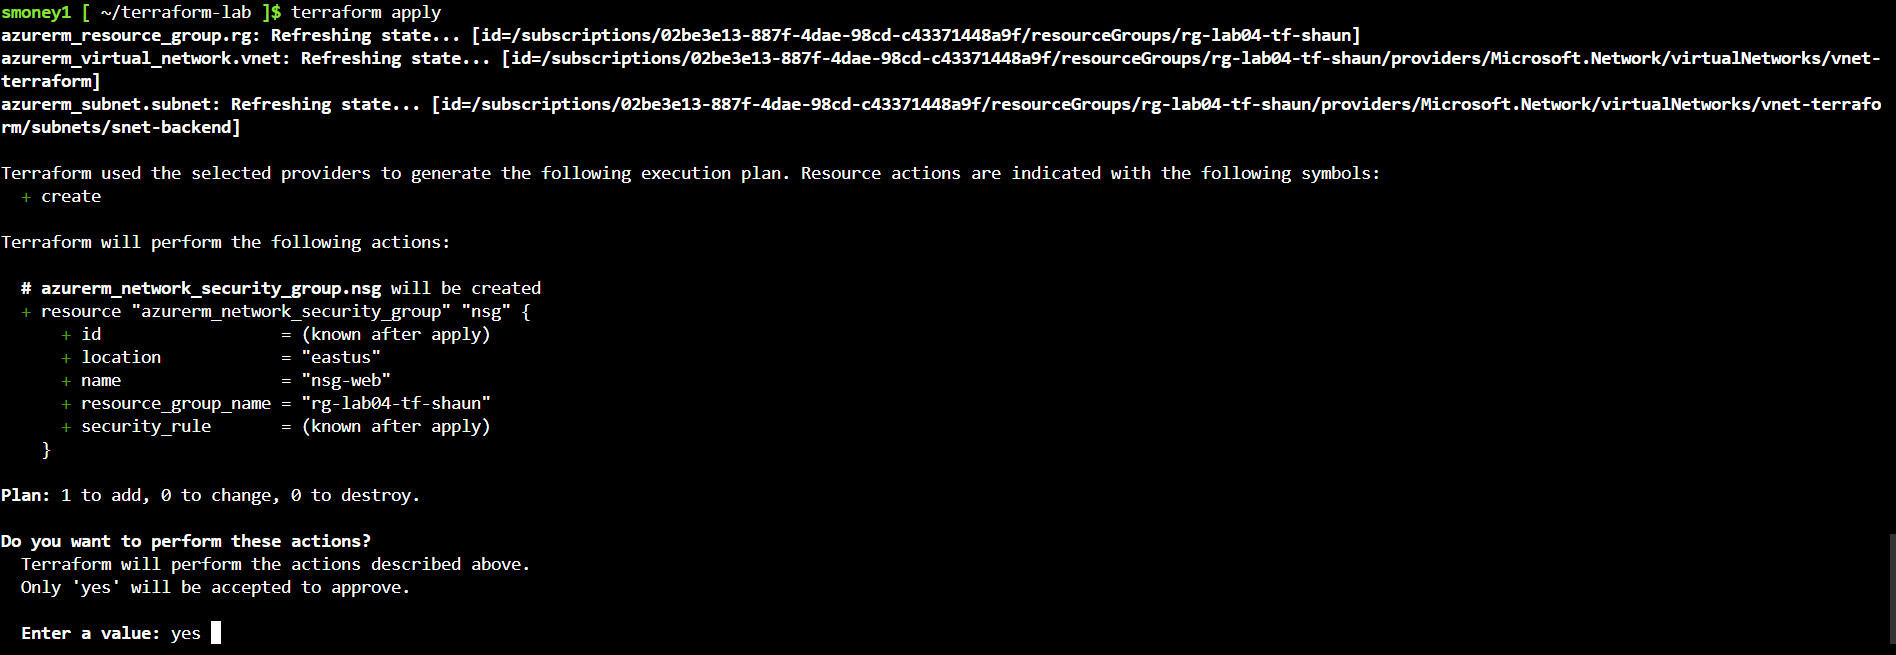
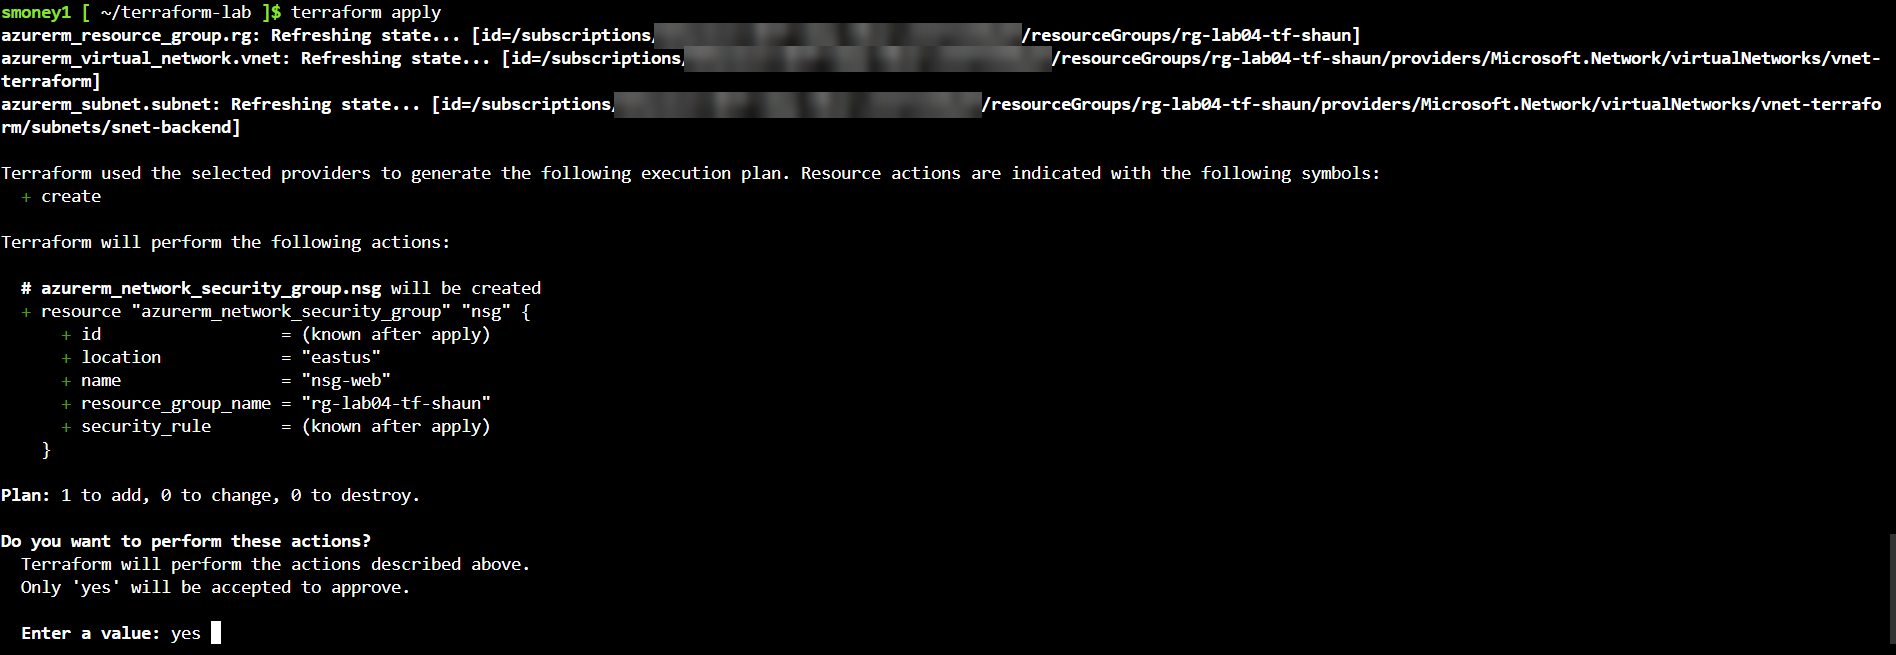
Add Lab 05: Governance and Security Hardening
- Created a Reader-only test user in Entra ID and verified the permission-denied test
- Assigned the Allowed VM size SKUs policy (Restrict-VM-Sizes)
- Set up a $50 monthly budget with 80% actual and 100% forecasted alerts
- Documented a policy scope/test mistake and how to fix it
- Redacted email, tenant, subscription ID, and object IDs in screenshots

Changed region(s): [[0.3112, 0.0305, 0.5601, 0.1832]]

diff --git a/lab05-governance-security/README.md b/lab05-governance-security/README.md
@@ -1,0 +1,215 @@
+# Lab 05: Governance and Security Hardening
+
+I set up the three guardrails every Azure environment needs: **who can do what** (RBAC), **what can be deployed** (Azure Policy), and **how much can be spent** (a budget with alerts). Then I tested them, which turned out to be the most valuable part of the lab, because one test didn't prove what I thought it proved.
+
+| | |
+|---|---|
+| **Difficulty** | Intermediate |
+| **Time** | About 25 minutes (my run: 5:10 AM to 5:33 AM) |
+| **Region** | Central US (resource group) |
+| **Concepts** | RBAC, least privilege, Microsoft Entra ID, Azure Policy, Cost Management, NIST CSF |
+
+---
+
+## Objective
+
+Create a test "Junior Developer" user with view-only access to one resource group, prove that user can't create anything, assign a policy that only allows small VM sizes, set a $50 monthly budget with early-warning alerts, and clean everything up, including the test identity.
+
+## Architecture
+
+```mermaid
+flowchart TB
+    User["junior-dev<br/>(Entra ID user)"] -->|Reader role| RG
+    Policy["Restrict-VM-Sizes<br/>Allowed: B1s, B1ms"] -->|Deny| RG
+    Budget["Monthly-Lab-Budget02<br/>$50 / month"] -->|80% actual<br/>100% forecast| Email["Email alert"]
+    RG["rg-lab05-shaun"] --> Budget
+```
+
+Each control covers a different gap: **RBAC limits people, Policy limits configurations, and the budget limits surprises.** The budget only alerts; it never stops spending.
+
+## Where This Fits in the NIST Cybersecurity Framework
+
+| NIST function | Plain English | Where it shows up in this lab |
+|---|---|---|
+| **Identify** | Know what you have and who has access | Creating the Junior Developer user in Entra ID |
+| **Protect** | Limit what can go wrong | The Reader role and the VM size policy |
+| **Detect** | Notice when something is off | The budget alerts |
+| **Respond** | Act when something goes wrong | Investigating after an alert email |
+| **Recover** | Get back to a known-good state | Deleting the test user and resource group |
+
+## Skills Demonstrated
+
+- Creating a user in **Microsoft Entra ID**
+- Assigning a built-in **RBAC role (Reader)** at resource group scope
+- Testing **least privilege** by signing in as the restricted user in an incognito window
+- Assigning a built-in **Azure Policy** definition with custom parameters
+- Creating a **budget** with both an Actual and a Forecasted alert
+- Reading an `AuthorizationFailed` error closely enough to tell *which* control caused it
+- Cleaning up identities as well as resources
+
+## Resources Deployed
+
+| Item | Name | Notes |
+|---|---|---|
+| Resource group | `rg-lab05-shaun` | Central US |
+| Test user | `junior-dev-shaun` | Display name `junior-dev` |
+| Role assignment | Reader | Scoped to `rg-lab05-shaun` |
+| Policy assignment | `Restrict-VM-Sizes` | Built-in "Allowed virtual machine size SKUs" |
+| Allowed VM sizes | `Standard_B1s`, `Standard_B1ms` | |
+| Budget | `Monthly-Lab-Budget02` | $50/month, alerts at 80% actual and 100% forecasted |
+
+---
+
+## Walkthrough
+
+### Phase 1: Resource group
+
+Created `rg-lab05-shaun` in **Central US**. Every role, policy, and budget in this lab is aimed at this one group so nothing leaks into the rest of the subscription.
+
+![rg-lab05-shaun in the resource groups list](./docs/screenshots/01-resource-group-created.png)
+
+### Phase 2: Create the user and assign Reader
+
+Searched for **Microsoft Entra ID**, Azure's identity service, and created a new internal user:
+
+![Searching for Microsoft Entra ID](./docs/screenshots/02-search-entra-id.png)
+![Add → User → Create new user](./docs/screenshots/03-add-new-user-menu.png)
+![Create new user: junior-dev-shaun](./docs/screenshots/04-create-user-junior-dev.png)
+
+Creating a user grants nothing on its own. Azure is **deny by default**, so access only exists once a role is assigned. I went to the resource group's **Access control (IAM)** and assigned **Reader** to `junior-dev`:
+
+![Access control (IAM) → Add role assignment](./docs/screenshots/05-rg-iam-add-role-assignment.png)
+![Reader role with junior-dev selected as the member](./docs/screenshots/06-reader-role-member-selected.png)
+
+### Phase 3: Prove it with the permission-denied test
+
+A control you never test is a control you can't trust. I opened an incognito window and signed in as the Junior Developer:
+
+![Signing in as junior-dev-shaun](./docs/screenshots/07-incognito-sign-in-junior-dev.png)
+
+Then I tried to create a storage account (`stlab05shaun`) in the lab resource group:
+
+![Create a storage account as junior-dev](./docs/screenshots/08-junior-dev-create-storage-account.png)
+
+Validation failed with **`AuthorizationFailed`**: the user doesn't have permission for `Microsoft.Resources/deployments/validate/action`. This error is the pass condition. It proves Reader really is read-only.
+
+![AuthorizationFailed when junior-dev tries to create storage](./docs/screenshots/09-storage-authorization-failed.png)
+
+### Phase 4: Assign the VM size policy
+
+Back on my main account, I opened **Policy → Assignments**. The only existing assignment was Azure's default Defender for Cloud initiative.
+
+![Policy assignments before adding mine](./docs/screenshots/10-policy-assignments.png)
+![Scope picker with rg-lab05-shaun checked](./docs/screenshots/11-policy-scope-picker.png)
+
+I picked the built-in **Allowed virtual machine size SKUs** definition and named the assignment `Restrict-VM-Sizes`:
+
+![Policy basics: Allowed virtual machine size SKUs, Restrict-VM-Sizes](./docs/screenshots/12-policy-basics-restrict-vm-sizes.png)
+
+On the Parameters tab I allowed only the two smallest burstable sizes, **Standard_B1s** and **Standard_B1ms**:
+
+![Parameters: Standard_B1s and Standard_B1ms selected](./docs/screenshots/13-policy-parameters-allowed-skus.png)
+
+> ⚠ Look at the Scope and Exclusions fields in screenshot 12. That detail matters; see [the mistake section](#-a-mistake-im-documenting-honestly) below.
+
+### Phase 5: Test the policy
+
+I started a VM called `testlab05-shaun` in `rg-lab05-shaun` and picked **Standard_D4als_v7** (4 vCPUs, about $117/month), a size that isn't on the allowed list:
+
+![Create a virtual machine basics](./docs/screenshots/14-vm-create-basics.png)
+![Size: Standard_D4als_v7, not on the allowed list](./docs/screenshots/15-vm-size-d4als-v7.png)
+
+Validation failed:
+
+![VM validation failed with AuthorizationFailed](./docs/screenshots/16-vm-authorization-failed.png)
+
+But this is **`AuthorizationFailed` for `junior-dev-shaun`**, the same RBAC error as Phase 3, not a policy denial. More on that below.
+
+### Phase 6: Budget with two alerts
+
+On the resource group's **Budgets** page I created `Monthly-Lab-Budget02`: $50, resetting monthly.
+
+![Budget details: $50 monthly](./docs/screenshots/17-budget-details.png)
+
+Two alert conditions, both emailing me:
+
+| Type | Threshold | Fires when |
+|---|---|---|
+| Actual | 80% ($40) | $40 has already been spent |
+| Forecasted | 100% ($50) | The current trend projects going over $50 this month |
+
+![Alert conditions: Actual 80%, Forecasted 100%](./docs/screenshots/18-budget-alert-conditions.png)
+
+Actual alerts give ground truth after the fact. Forecasted alerts give a warning *before* the money is spent.
+
+### Clean-up
+
+Deleted the resource group, which takes the role assignment and budget with it:
+
+![Delete rg-lab05-shaun](./docs/screenshots/19-delete-resource-group.png)
+
+Then deleted the test user separately in Entra ID. Users aren't inside resource groups, so deleting the group doesn't remove them, and a leftover unused account is attack surface even with no resources attached.
+
+![Deleting junior-dev in Entra ID users](./docs/screenshots/20-delete-junior-dev-user.png)
+
+---
+
+## ⚠ A Mistake I'm Documenting Honestly
+
+My policy test in Phase 5 **didn't actually test the policy.** Two things went wrong, and either one alone would have made the result meaningless.
+
+**1. I ran the test as the wrong user.** I was still signed in as `junior-dev-shaun` when I tried to create the VM. A Reader can't create anything, so Azure stopped the request at the RBAC check before Policy was ever evaluated. The error proves the same thing Phase 3 already proved, and nothing new. A policy denial looks different: it names the policy assignment (`Restrict-VM-Sizes`) and says the request was disallowed by policy.
+
+**2. The policy was pointed at the wrong place.** Screenshot 12 shows **Scope: Azure subscription 1** and **Exclusions: Azure subscription 1/rg-lab05-shaun**. That's the opposite of what I intended. It applies the rule to every resource group in the subscription *except* the lab one. In screenshot 11 I had `rg-lab05-shaun` checked in the scope picker, but it doesn't look like it was added to the selected scope, and the group ended up in Exclusions instead. So even from my admin account, the D4als_v7 VM in `rg-lab05-shaun` would most likely have passed.
+
+**What I'd do differently:**
+
+- Run the policy test from my **main account**, so RBAC isn't the thing blocking me.
+- After clicking the resource group in the scope picker, click **Add to Selected Scope** and confirm the Scope field shows `.../rg-lab05-shaun` with **Exclusions empty**.
+- Wait 10 to 30 minutes after assigning, then test both directions: `Standard_D4als_v7` should fail with a message naming `Restrict-VM-Sizes`, and `Standard_B1s` should pass.
+
+**The lesson:** read the error, not just the red banner. "Validation failed" told me something was blocked; only the error details tell you *which* control did it. In a real environment, mistaking an RBAC block for a working policy would leave a gap nobody knows about.
+
+---
+
+## Notes and Decisions
+
+- **Names differ slightly from the lab guide.** Resource group is `rg-lab05-shaun` (not `rg-lab05-gov-shaun`), the user's display name is `junior-dev`, and the budget is `Monthly-Lab-Budget02`.
+- **Region:** the resource group is in Central US, while the storage account and VM tests used East US. A resource's region doesn't have to match its resource group's region; the group is just a container.
+- **Test VM size:** I used `Standard_D4als_v7` instead of the guide's `Standard_D2s_v3`. Both are outside the allowed list, so either works for the test.
+- **Screenshots are redacted.** My email, tenant domain, subscription ID, and the test user's object ID are blurred.
+
+## Troubleshooting Reference
+
+| Symptom | Likely cause | Fix |
+|---|---|---|
+| Junior Developer can still create resources | Role assigned at the wrong scope, e.g. the whole subscription | Check IAM → Role assignments on the resource group |
+| VM test fails with `AuthorizationFailed` | You're signed in as the Reader user, so RBAC blocks it before Policy runs | Run the policy test from your main account |
+| Policy isn't blocking a disallowed size | Not propagated yet, **or** the resource group is in Exclusions instead of Scope | Wait 15–30 minutes, then check the assignment's Scope and Exclusions under Policy → Assignments |
+| Can't find Budgets in the resource group menu | Not shown for every subscription type | Use Cost Management + Billing from the search bar |
+| Incognito sign-in asks for authenticator setup | Entra ID requires MFA on first sign-in | Complete it; this is the Protect function working |
+| Budget creation fails on permissions | Account lacks Cost Management write access | Check for Cost Management Contributor or Owner |
+
+## Key Concepts Recap
+
+- **RBAC controls who can act.** Roles bundle permissions (Owner, Contributor, Reader), and a role only applies inside its **scope**.
+- **Least privilege:** give the minimum access needed. **Deny by default:** a new user can do nothing until a role is assigned.
+- **Azure Policy controls what can be deployed,** no matter who is deploying. A Deny policy blocks even Owners, which is why it can't be bypassed by raising your own permissions.
+- **Definition vs. assignment:** a policy definition is the rule; it does nothing until it's assigned to a scope.
+- **Exclusions carve holes in a scope.** Anything excluded is untouched by the policy.
+- **A budget is a smoke detector, not a fire department.** It alerts; it doesn't stop resources or block deployments. Automatic action requires an action group.
+- **Layered defense:** RBAC stops the wrong *people*, Policy stops the wrong *configurations*, and the budget catches whatever slips through, including a compromised account spending money.
+
+## What I Learned
+
+- Creating a user and granting access are two separate steps, and the second is the one that matters.
+- Testing a control means confirming *that specific control* caused the result. Two different controls can both produce a red "Validation failed" banner.
+- Scope and Exclusions sit right next to each other on the policy form, and mixing them up flips the policy's effect.
+- Clean-up has two parts: resources live in resource groups, but identities live in Entra ID and need to be removed on their own.
+
+## Possible Next Steps
+
+- Redo the policy assignment scoped directly to the resource group with no exclusions, then re-run the VM test from my main account and capture the real `RequestDisallowedByPolicy` error
+- Test the allowed direction too, confirming `Standard_B1s` passes validation
+- Add an **action group** to the budget so an alert can trigger automation, not just an email
+- Assign the same Reader role and policy with Terraform, building on Lab 04

diff --git a/README.md b/README.md
@@ -10,6 +10,7 @@ Hands-on Azure labs I completed while building my cloud engineering skills. Ever
 | 02 | [Secure 2-tier web application](./lab02-secure-2tier-app) | A public web tier and a private database tier on one VNet | Virtual networks, subnetting, NSGs, jump-host SSH access |
 | 03 | [Modernizing to PaaS and securing secrets](./lab03-paas-keyvault) | Replaced a VM database with Azure SQL, secured its password with Key Vault and Managed Identity | Azure SQL Database, Key Vault, RBAC, Managed Identity, observability |
 | 04 | [Infrastructure as Code with Terraform](./lab04-terraform-iac) | A resource group, VNet, subnet, and NSG deployed, changed, and destroyed entirely from code | Terraform, IaC, state management, init / plan / apply / destroy |
+| 05 | [Governance and security hardening](./lab05-governance-security) | A Reader-only test user, a VM size policy, and a $50 budget with alerts on one resource group | RBAC, Entra ID, Azure Policy, Cost Management, NIST CSF |
 
 More labs will be added as I complete them.
 

diff --git a/lab04-terraform-iac/README.md b/lab04-terraform-iac/README.md
@@ -174,6 +174,7 @@ Back in the portal, `rg-lab04-tf-shaun` was gone. Only `NetworkWatcherRG` remain
 - **The NSG has no rules.** It was added to prove the incremental-change workflow, not to filter traffic, and it isn't associated with the subnet.
 - **State files are not committed.** The repo's `.gitignore` already excludes `.terraform/`, `*.tfstate`, and `*.tfvars`, so only `main.tf` is in this folder. State files can contain resource IDs and sometimes secrets.
 - **No saved plan file.** Terraform warned that I didn't use `-out`, so `apply` recalculates the plan instead of running a saved one. That's fine for a solo lab; on a team you'd save the plan so what was reviewed is exactly what gets applied.
+- **Screenshots are redacted.** My subscription ID and account email are blurred in the terminal output and portal header.
 - **No "1 added" screenshot for the NSG apply.** I captured the `yes` prompt but not the completion line; the portal screenshot showing `nsg-web` confirms it was created.
 
 ## Troubleshooting Reference
